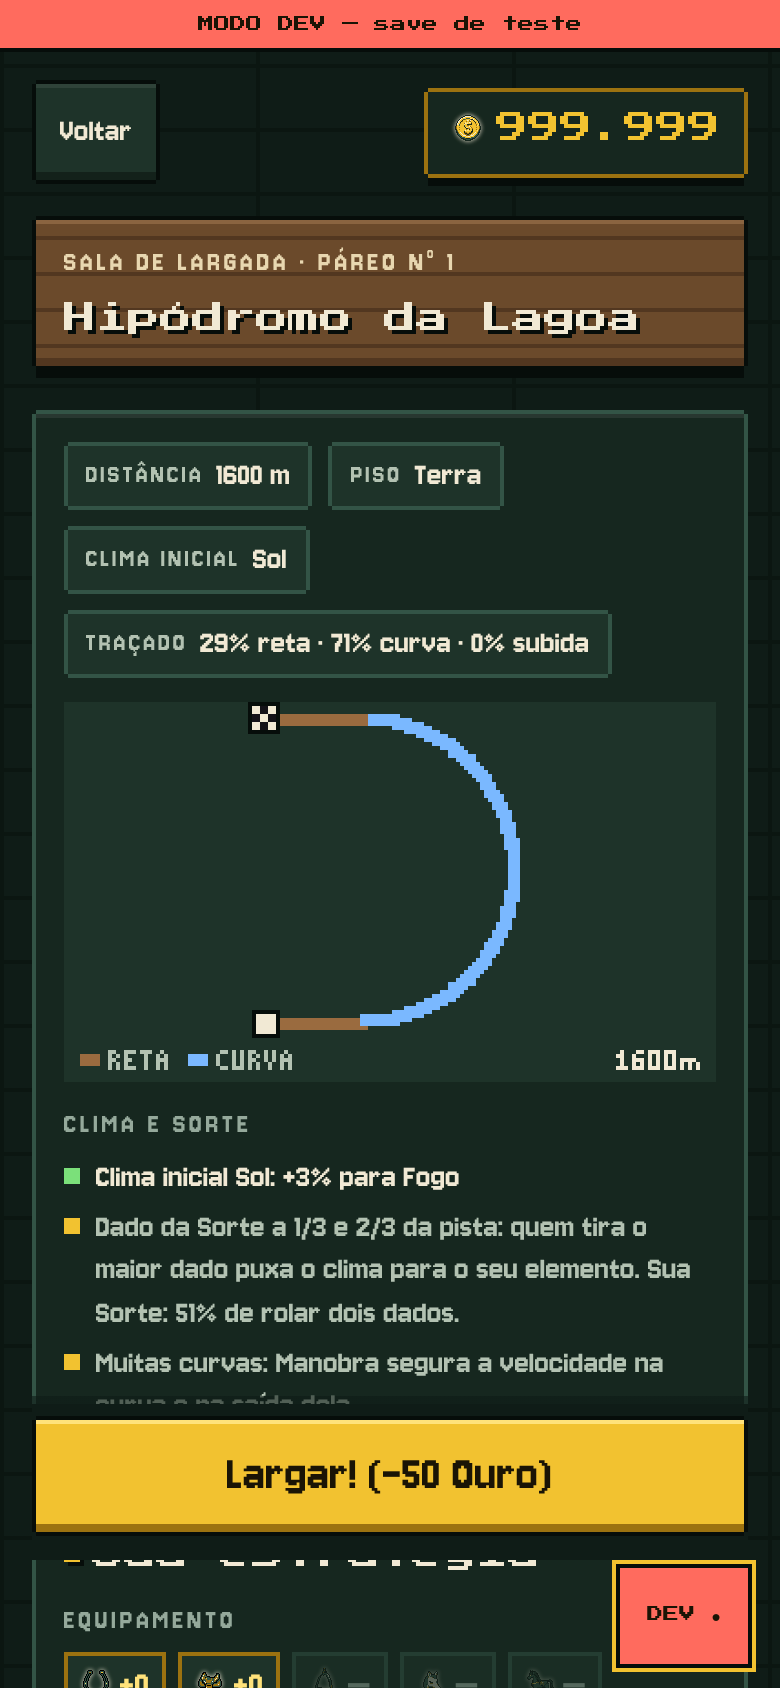
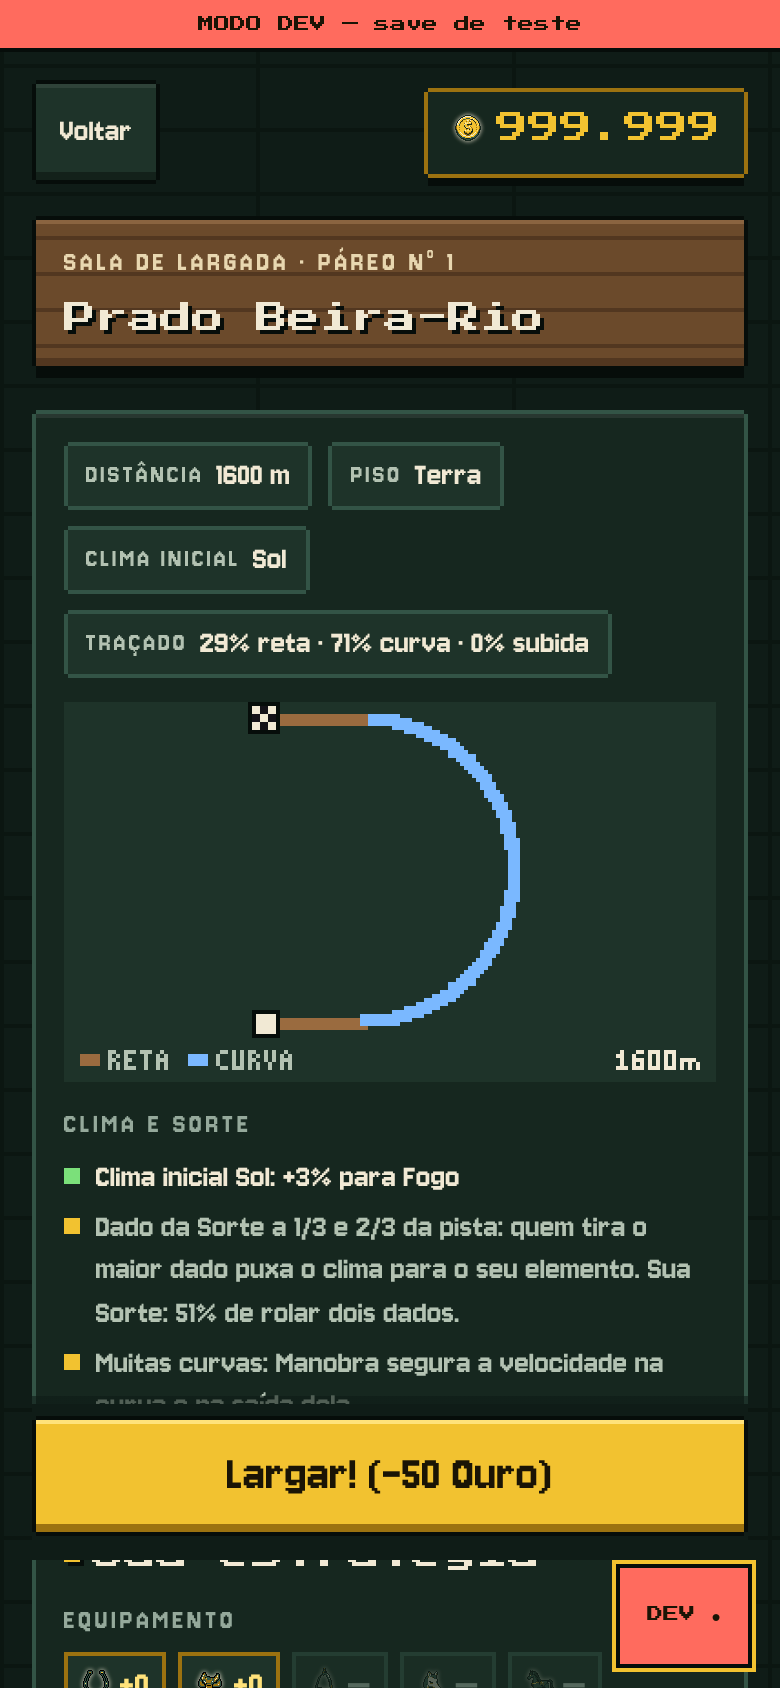
Atualiza as capturas oficiais depois do pente fino
A interface mudou de propósito: texto mínimo de 11 px, renomear por campo na
tela, aviso de sala aberta, área segura do topo e a escala de trabalho da
corrida. As 28 capturas saem do ui-test rodado direto.

Claude-Session: https://claude.ai/code/session_01MGExzKELAJ58uyj4wakVgJ

diff --git a/docs/memoria/ESTADO.md b/docs/memoria/ESTADO.md
@@ -17,7 +17,7 @@ estão em `docs/cronograma.md`.
 - **Modo DEV:** save separado (`galope-elemental:dev`), gaveta "DEV" com Moedas, Cavalo, Itens,
   Próxima corrida (pista, clima, vento, skills sempre) e Perfil. Nunca toca no save real.
 - **Verificação:** `./scripts/check.sh` em 8 etapas termina em `VERIFICAÇÃO COMPLETA: OK` (76 testes
-  de simulação, 65 de efeitos, 46 de moldes, 290 conferências do wiki, 66 metas de balanço no modo
+  de simulação, 66 de efeitos, 46 de moldes, 290 conferências do wiki, 66 metas de balanço no modo
   rápido e 82 no completo, e o teste de interface).
 
 ## Pronto (o detalhe de cada frente está na spec, em `docs/superpowers/specs/`)
